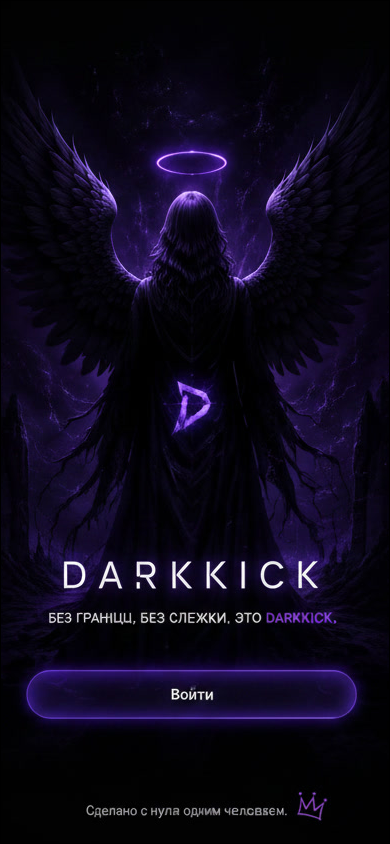
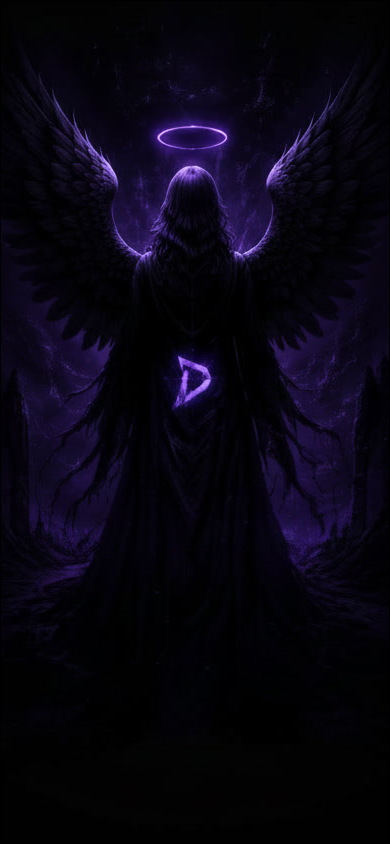
Prepare Codemagic release: update auth background and asset checks.
Push the new Figma auth_bg.png, verify assets before APK build, and fix splash using a declared asset instead of missing logo.png.

diff --git a/lib/screens/improved_splash_screen.dart b/lib/screens/improved_splash_screen.dart
@@ -65,9 +65,17 @@ class _ImprovedSplashScreenState extends State<ImprovedSplashScreen> {
           children: [
             // Logo
             Image.asset(
-              'assets/logo.png',
+              'assets/images/auth_bg.png',
               width: 120,
               height: 120,
+              fit: BoxFit.cover,
+              errorBuilder: (context, error, stackTrace) {
+                return Icon(
+                  Icons.bolt,
+                  size: 72,
+                  color: Theme.of(context).colorScheme.primary,
+                );
+              },
             ),
             const SizedBox(height: 24),
             // App name